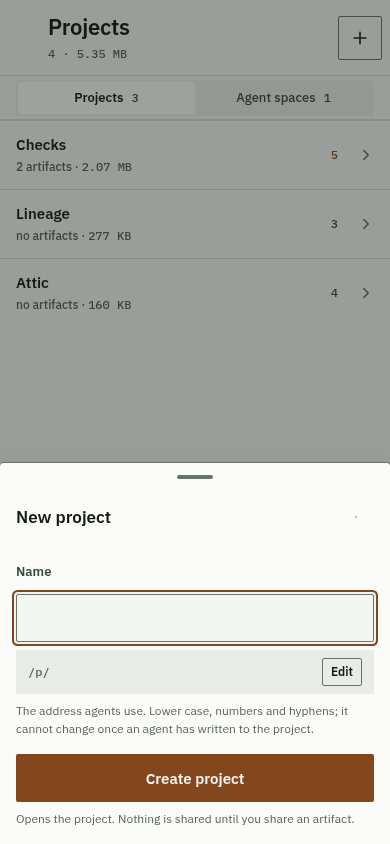
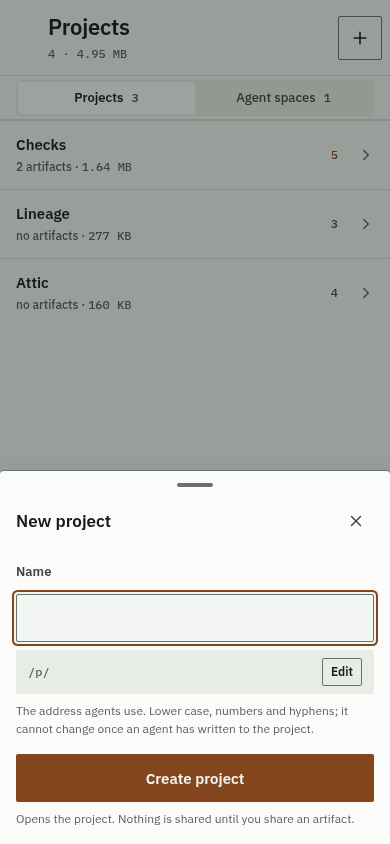
fix(web): meet the focus, label and target gates
A focused Now row on a wide stage lost its ring under the column's
fill, a phone project tab's outer ring was clipped by the scrolling
track, and on the desktop feed a focused row link drew two rings while
the current rail item and the selected switcher tab drew none, because
their current-state shadow replaced the focus shadow. Each ring is now
drawn once, on the element that is seen.

The wiki stats and the agent project label were set in mono and typed
in capitals; they now use the one label style, with the count in a mono
span. The selected theme segment and project tab carry a 2px ink rule
so the choice does not rest on a fill a shade off the track. The New
project close glyph is drawn at 18px with a 44px target on a coarse
pointer, and the capture glyph is drawn at 32 by 32 with a 44px hit
area.

The label, focus-ring and control-sizing specs now hold these, and the
affected wiki screens are recaptured.

Changed region(s): [[0.0, 0.5237, 1.0, 0.6469], [0.2462, 0.1848, 0.2769, 0.2156]]

diff --git a/web/app.css b/web/app.css
@@ -350,12 +350,12 @@ button:not([disabled]):active, .chip:active { transform: translateY(1px); }
 @media (any-pointer: coarse) {
   .row button, .chip, .hub-btn-glyph, .hub-version-toggle, .projects-new,
   .storage-remeasure-btn, .storage-prune-all-btn, .projects-tab-btn, .reveal-copy,
-  .shell-seg a, .settings-glyph-seg, .settings-theme-btn, .shell-filter { position: relative; }
+  .shell-seg a, .settings-glyph-seg, .settings-theme-btn, .shell-filter, .feed-capture { position: relative; }
   .row button::after, .chip::after, .hub-btn-glyph::after,
   .hub-version-toggle::after, .projects-new::after, .storage-remeasure-btn::after,
   .storage-prune-all-btn::after, .projects-tab-btn::after, .reveal-copy::after,
   .shell-seg a::after, .settings-glyph-seg::after, .settings-theme-btn::after,
-  .shell-filter::after {
+  .shell-filter::after, .feed-capture::after {
     content: ""; position: absolute; top: 50%; left: 50%;
     width: max(100%, var(--tap)); height: max(100%, var(--tap));
     transform: translate(-50%, -50%);
@@ -445,6 +445,8 @@ button:not([disabled]):active, .chip:active { transform: translateY(1px); }
     font-weight: 600;
     box-shadow: inset 2px 0 0 var(--accent);
   }
+  /* The current mark would replace the focus ring, so the two are layered. */
+  .rail-item[aria-current="page"]:focus-visible { box-shadow: inset 2px 0 0 var(--accent), var(--focus); }
   .rail-glyph {
     flex: none;
   }
@@ -2731,6 +2733,9 @@ a.item-step:hover { background: var(--surface-2); color: var(--ink); }
 .feed-row .action, .feed-row .ts { position: relative; z-index: 1; }
 .feed-row:focus-visible, .feed-row:has(.feed-link:focus-visible) { position: relative; z-index: 1; }
 
+/* The link's target is the whole row, and the row draws the ring. */
+.feed-row .feed-link:focus-visible { box-shadow: none; }
+
 /* A feed row is a swipe target: the item holds the row and the Dismiss tray
    under it, so the row slides off the tray rather than carrying it along. */
 .feed-item { position: relative; overflow: hidden; }
@@ -2791,7 +2796,7 @@ a.item-step:hover { background: var(--surface-2); color: var(--ink); }
 }
 .shell-controls > .feed-capture {
   flex: none; display: inline-flex; align-items: center; justify-content: center;
-  width: var(--ctl); min-width: var(--ctl); padding: 0;
+  width: var(--ctl); min-width: var(--ctl); height: var(--ctl); min-height: var(--ctl); padding: 0;
 }
 .feed-select-bar {
   display: flex;
@@ -5906,13 +5911,7 @@ a.session-back {
   background: var(--surface);
   color: var(--ink);
   font-weight: 600;
-  box-shadow: var(--shadow-1);
-}
-
-.settings-segment:focus,
-.settings-segment:focus-visible {
-  outline: 2px solid var(--accent);
-  outline-offset: 1px;
+  box-shadow: inset 0 -2px 0 var(--ink);
 }
 
 .settings-check {
@@ -6488,6 +6487,10 @@ a.session-back {
 .project-create-close {
   width: 36px;
   height: 36px;
+  min-width: 0;
+  min-height: 0;
+  flex: none;
+  padding: 0;
   display: inline-flex;
   align-items: center;
   justify-content: center;
@@ -6609,12 +6612,14 @@ a.session-back {
   outline: none;
   box-shadow: var(--focus);
 }
-@media (pointer: coarse) {
+@media (any-pointer: coarse) {
   .project-create-close::after {
     content: "";
     position: absolute;
     inset: -4px;
   }
+}
+@media (pointer: coarse) {
   .project-create-edit-btn::after {
     content: "";
     position: absolute;
@@ -7073,6 +7078,7 @@ dialog.dialog-project-delete {
 .shell-seg a { font-weight: 600; }
 .shell-seg a[aria-selected="true"] { background: var(--surface-2); color: var(--ink); box-shadow: inset 0 -2px 0 var(--ink); }
 .shell-seg a[aria-selected="true"] .shell-seg-count { color: var(--ink-2); }
+.shell-seg a[aria-selected="true"]:focus-visible { box-shadow: inset 0 -2px 0 var(--ink), var(--focus); }
 /* The project's four sections carry counts, and at 284px they fill a 360px index
    pane exactly. Below that they cannot, so the counts go and the tabs take less
    padding: a count is the first thing a reader can lose and the last they want
@@ -7406,7 +7412,7 @@ dialog.dialog-project-delete {
   border: 0;
   border-radius: var(--r-1);
   color: var(--ink);
-  box-shadow: var(--shadow-1);
+  box-shadow: inset 0 -2px 0 var(--ink);
 }
 /* The phone draws the same three-way group through `themeSegment`, which hands
    its own size inline. Those numbers are what the rhythm above sets, so they
@@ -7429,8 +7435,11 @@ dialog.dialog-project-delete {
 .settings-theme-btn[aria-checked="true"] {
   background: var(--surface);
   color: var(--ink);
-  box-shadow: var(--shadow-1);
+  box-shadow: inset 0 -2px 0 var(--ink);
 }
+.settings-glyph-seg[aria-pressed="true"]:focus-visible,
+.settings-glyph-seg[aria-checked="true"]:focus-visible,
+.settings-theme-btn[aria-checked="true"]:focus-visible { box-shadow: inset 0 -2px 0 var(--ink), var(--focus); }
 .settings-theme-track {
   flex: none;
   display: flex;
@@ -7767,13 +7776,18 @@ dialog.dialog-project-delete {
   .now-r-kind { display: inline-flex; color: var(--ink-2); font-weight: 500; }
   .now-row[tabindex="0"], .now-row:hover { background: transparent; box-shadow: none; }
   .now-row[tabindex="0"]::before { content: none; }
-  .now-row:focus-visible { box-shadow: inset 0 0 0 2px var(--accent); }
   .now-row[tabindex="0"] > .now-main {
     background: var(--surface-2);
     box-shadow: calc(-1 * var(--s-4)) 0 0 var(--surface-2), var(--s-4) 0 0 var(--surface-2);
   }
   @media (hover: hover) {
     .now-row:hover > .now-main { background: var(--surface-2); }
+  }
+  /* The column's fill paints over the row's own inset ring, so the ring is
+     drawn by the column across its width. */
+  .now-row:focus-visible { box-shadow: none; }
+  .now-row:focus-visible > .now-main {
+    box-shadow: inset 0 0 0 2px var(--accent), calc(-1 * var(--s-4)) 0 0 var(--surface-2), var(--s-4) 0 0 var(--surface-2);
   }
   .now-row[tabindex="0"] > .now-main::before {
     content: ""; position: absolute; left: calc(-1 * var(--s-4)); top: 0; bottom: 0; width: 2px; background: var(--accent);
@@ -8588,10 +8602,14 @@ button.agent-grant-open {
 .agent-detail-column { max-width: 640px; }
 .agent-detail-label {
   padding: var(--s-5) 0 var(--s-2);
-  font: 600 var(--t-12)/1 var(--font-mono);
+  font-size: var(--t-12);
+  font-weight: 600;
+  line-height: 1;
+  text-transform: uppercase;
   color: var(--ink-3);
   letter-spacing: .06em;
 }
+.agent-detail-label .mono { text-transform: none; }
 .agent-detail-gap { height: 24px; }
 button.agent-revoke-btn {
   display: flex;
@@ -8830,7 +8848,8 @@ button.wiki-conflict-btn {
   gap: var(--s-2);
 }
 .wiki-comment-author, .wiki-editor-label { font-size: var(--t-13); font-weight: 600; }
-.wiki-comment-time, .wiki-editor-note, .wiki-finding-code, .wiki-stat-label { font-size: var(--t-12); color: var(--ink-3); }
+.wiki-comment-time, .wiki-editor-note, .wiki-finding-code { font-size: var(--t-12); color: var(--ink-3); }
+.wiki-stat-label { font-size: var(--t-12); font-weight: 600; text-transform: uppercase; letter-spacing: .06em; color: var(--ink-3); }
 .wiki-comment-gap { flex: 1; }
 button.wiki-comment-resolve {
   flex: none;
@@ -9680,7 +9699,11 @@ button:is(.agent-grant-open, .agent-revoke-btn):not([disabled]):not(.primary):no
     }
   }
   .project-tools-seg a[aria-selected="true"],
-  .project-tools-seg a[aria-current="page"] { background: var(--raised); color: var(--ink); font-weight: 600; }
+  .project-tools-seg a[aria-current="page"] { background: var(--raised); color: var(--ink); font-weight: 600; box-shadow: inset 0 -2px 0 var(--ink); }
+  /* The track scrolls, so it clips an outer ring: the tab draws it inside. */
+  .project-tools-seg a:focus-visible { box-shadow: inset 0 0 0 2px var(--accent); outline-offset: -2px; }
+  .project-tools-seg a[aria-selected="true"]:focus-visible,
+  .project-tools-seg a[aria-current="page"]:focus-visible { box-shadow: inset 0 0 0 2px var(--accent), inset 0 -4px 0 var(--ink); }
   .project-tools-seg .shell-seg-count { font-family: var(--font-mono); font-size: var(--t-12); font-weight: 500; color: var(--ink-2); }
   .project-filter-btn {
     flex: none; width: var(--tap); height: var(--tap); min-width: var(--tap); min-height: var(--tap);

diff --git a/DESIGN.md b/DESIGN.md
@@ -546,6 +546,12 @@ structure, not to line length.
 - **Chips and pills.** A chip is a filter: 2px radius and no border at rest;
   selected is the sunken ground with a 2px ink rule under the label. A pill is a
   value, not a door, at the 2px radius.
+- **Segmented control.** The selected segment carries a 2px ink rule along its
+  foot, as a chip does, because a fill a shade off the track is not told apart
+  at 3:1. Theme segments and the project section switcher, on desktop and on a
+  phone, carry it at rest; the phone Projects and Agent spaces register stays
+  fill-only. A phone tab's focus ring is drawn inside the tab, beside the mark,
+  so the scrolling track does not clip it.
 - **Key hints.** A key is named on a key chip: 12/500 mono in `--ink-2`, 20px
   high, a `--line-strong` border with a 2px foot, on the raised ground. The
   rail's search key and the shortcut list draw the same chip. Inside a button

diff --git a/docs/log.md b/docs/log.md
@@ -6,6 +6,13 @@ software release notes and the repository changelog.
 
 ## 2026-11-22
 
+### Selected segments carry a mark
+
+* **Update**: the Settings, Projects, New project and Wiki screens are
+  recaptured. A selected theme segment and project tab draw an ink rule, the
+  wiki counts and agent project label use the one label style, and the New
+  project close glyph is drawn whole.
+
 ### An ask opens from its sentence
 
 * **Update**: [Human interface](/design/human-interface.md) and the
